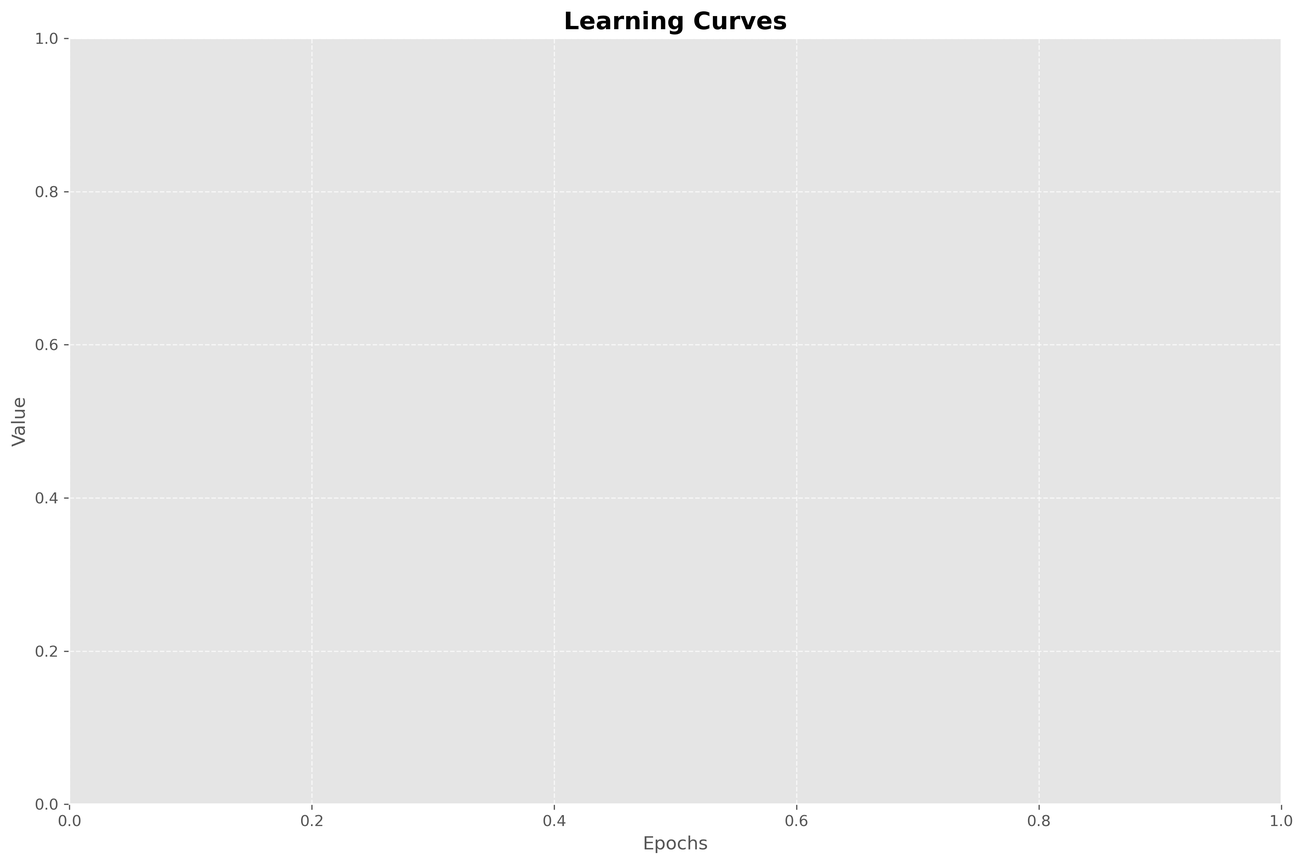
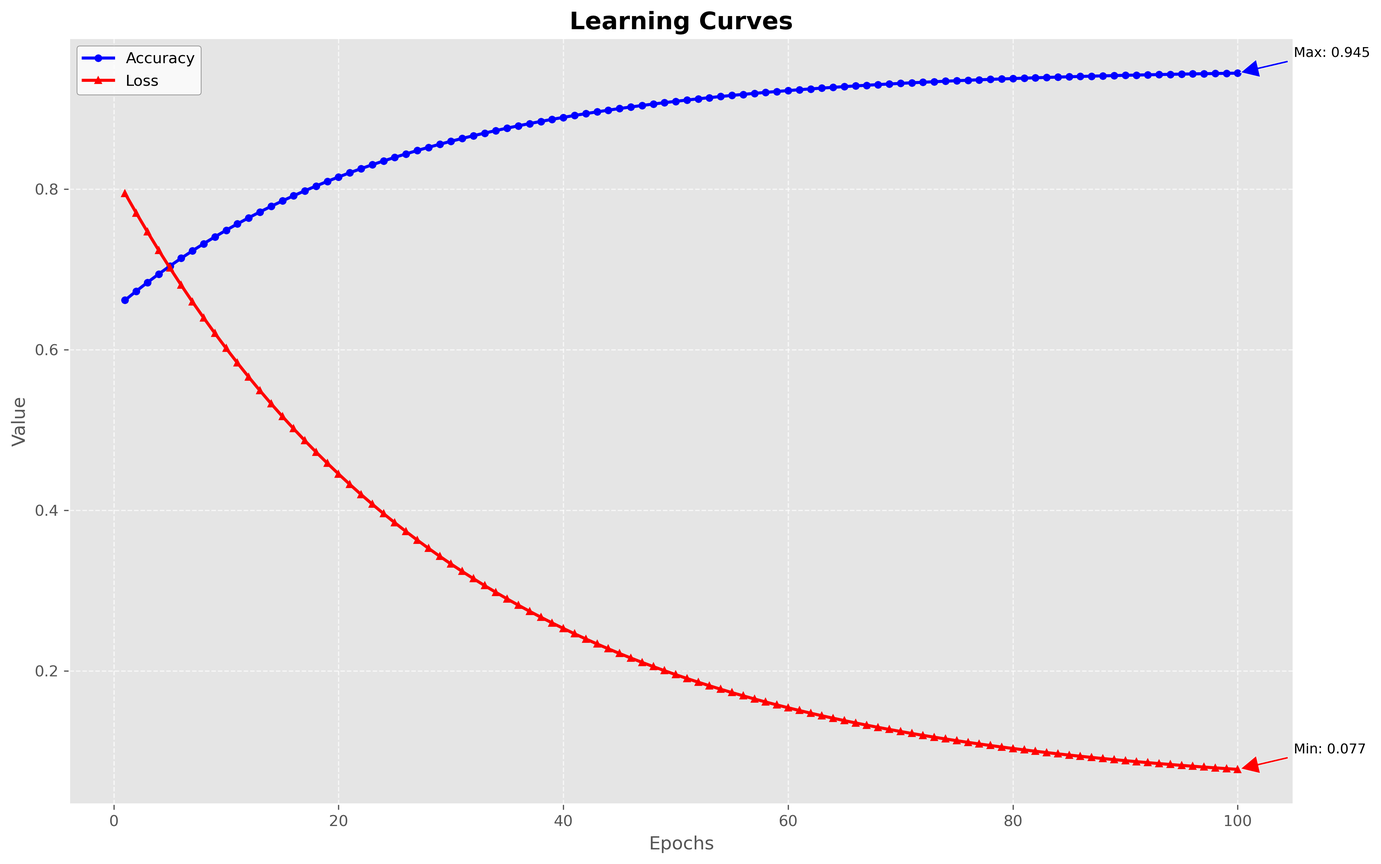
Checkpoint before assistant change: Update Deep Learning model to display graphs similar to the Machine Learning model.
Replit-Commit-Author: Assistant

diff --git a/ai_language/Program test/Data/learning_curves_interactive.html b/ai_language/Program test/Data/learning_curves_interactive.html
@@ -4,7 +4,7 @@
 
 </style>
 
-<div id="fig_el6039140176438005264899381300"></div>
+<div id="fig_el63201402741829803046711847683"></div>
 <script>
 function mpld3_load_lib(url, callback){
   var s = document.createElement('script');
@@ -19,7 +19,7 @@ if(typeof(mpld3) !== "undefined" && mpld3._mpld3IsLoaded){
    // already loaded: just create the figure
    !function(mpld3){
        
-       mpld3.draw_figure("fig_el6039140176438005264899381300", {"width": 1200.0, "height": 800.0, "axes": [{"bbox": [0.05616898148148149, 0.07409722222222226, 0.9221122685185185, 0.8742361111111111], "xlim": [0.0, 1.0], "ylim": [0.0, 1.0], "xdomain": [0.0, 1.0], "ydomain": [0.0, 1.0], "xscale": "linear", "yscale": "linear", "axes": [{"position": "bottom", "nticks": 6, "tickvalues": null, "tickformat_formatter": "", "tickformat": null, "scale": "linear", "fontsize": 10.0, "grid": {"gridOn": true, "color": "#FFFFFF", "dasharray": "6,6", "alpha": 0.7}, "visible": true}, {"position": "left", "nticks": 6, "tickvalues": null, "tickformat_formatter": "", "tickformat": null, "scale": "linear", "fontsize": 10.0, "grid": {"gridOn": true, "color": "#FFFFFF", "dasharray": "6,6", "alpha": 0.7}, "visible": true}], "axesbg": "#E5E5E5", "axesbgalpha": null, "zoomable": true, "id": "el6039140176444757072", "lines": [], "paths": [], "markers": [], "texts": [{"text": "Epochs", "position": [0.5, -0.0418619429660815], "coordinates": "axes", "h_anchor": "middle", "v_baseline": "hanging", "rotation": -0.0, "fontsize": 12.0, "color": "#555555", "alpha": 1, "zorder": 3, "id": "el6039140176438409488"}, {"text": "Value", "position": [-0.03380172083770028, 0.5], "coordinates": "axes", "h_anchor": "middle", "v_baseline": "auto", "rotation": -90.0, "fontsize": 12.0, "color": "#555555", "alpha": 1, "zorder": 3, "id": "el6039140176436430160"}, {"text": "Learning Curves", "position": [0.5, 1.0119151640320916], "coordinates": "axes", "h_anchor": "middle", "v_baseline": "auto", "rotation": -0.0, "fontsize": 16.0, "color": "#000000", "alpha": 1, "zorder": 3, "id": "el6039140176436436432"}], "collections": [], "images": [], "sharex": [], "sharey": []}], "data": {}, "id": "el6039140176438005264", "plugins": [{"type": "reset"}, {"type": "zoom", "button": true, "enabled": false}, {"type": "boxzoom", "button": true, "enabled": false}]});
+       mpld3.draw_figure("fig_el63201402741829803046711847683", {"width": 1200.0, "height": 800.0, "axes": [{"bbox": [0.05616898148148149, 0.07409722222222226, 0.9313310185185185, 0.8742361111111111], "xlim": [-3.95, 104.95], "ylim": [0.03411719999999999, 0.9878568000000001], "xdomain": [-3.95, 104.95], "ydomain": [0.03411719999999999, 0.9878568000000001], "xscale": "linear", "yscale": "linear", "axes": [{"position": "bottom", "nticks": 8, "tickvalues": null, "tickformat_formatter": "", "tickformat": null, "scale": "linear", "fontsize": 10.0, "grid": {"gridOn": true, "color": "#FFFFFF", "dasharray": "6,6", "alpha": 0.7}, "visible": true}, {"position": "left", "nticks": 6, "tickvalues": null, "tickformat_formatter": "", "tickformat": null, "scale": "linear", "fontsize": 10.0, "grid": {"gridOn": true, "color": "#FFFFFF", "dasharray": "6,6", "alpha": 0.7}, "visible": true}], "axesbg": "#E5E5E5", "axesbgalpha": null, "zoomable": true, "id": "el6320140274176654736", "lines": [{"data": "data01", "xindex": 0, "yindex": 1, "coordinates": "data", "id": "el6320140274174817488", "color": "#0000FF", "linewidth": 2.0, "dasharray": "none", "alpha": 1, "zorder": 2, "drawstyle": "default"}, {"data": "data01", "xindex": 0, "yindex": 2, "coordinates": "data", "id": "el6320140274175009424", "color": "#FF0000", "linewidth": 2.0, "dasharray": "none", "alpha": 1, "zorder": 2, "drawstyle": "default"}, {"data": "data02", "xindex": 0, "yindex": 1, "coordinates": "axes", "id": "el6320140274175790864", "color": "#0000FF", "linewidth": 2.0, "dasharray": "none", "alpha": 1, "zorder": 1000002.0, "drawstyle": "default"}, {"data": "data02", "xindex": 0, "yindex": 2, "coordinates": "axes", "id": "el6320140274175070992", "color": "#FF0000", "linewidth": 2.0, "dasharray": "none", "alpha": 1, "zorder": 1000002.0, "drawstyle": "default"}], "paths": [{"data": "data03", "xindex": 0, "yindex": 1, "coordinates": "axes", "pathcodes": ["M", "L", "S", "L", "S", "L", "S", "L", "S", "Z"], "id": "el6320140274178774096", "dasharray": "none", "alpha": 0.8, "facecolor": "rgba(255, 255, 255, 0.8)", "edgecolor": "rgba(128, 128, 128, 0.8)", "edgewidth": 0.5, "zorder": 1000000.0}], "markers": [{"data": "data01", "xindex": 0, "yindex": 1, "coordinates": "data", "id": "el6320140274174817488pts", "facecolor": "#0000FF", "edgecolor": "#0000FF", "edgewidth": 1.0, "alpha": 1, "zorder": 2, "markerpath": [[[0.0, 2.0], [0.5304062, 2.0], [1.039159741569707, 1.7892673831764834], [1.4142135623730951, 1.4142135623730951], [1.7892673831764834, 1.039159741569707], [2.0, 0.5304062], [2.0, 0.0], [2.0, -0.5304062], [1.7892673831764834, -1.039159741569707], [1.4142135623730951, -1.4142135623730951], [1.039159741569707, -1.7892673831764834], [0.5304062, -2.0], [0.0, -2.0], [-0.5304062, -2.0], [-1.039159741569707, -1.7892673831764834], [-1.4142135623730951, -1.4142135623730951], [-1.7892673831764834, -1.039159741569707], [-2.0, -0.5304062], [-2.0, 0.0], [-2.0, 0.5304062], [-1.7892673831764834, 1.039159741569707], [-1.4142135623730951, 1.4142135623730951], [-1.039159741569707, 1.7892673831764834], [-0.5304062, 2.0], [0.0, 2.0]], ["M", "C", "C", "C", "C", "C", "C", "C", "C", "Z"]]}, {"data": "data01", "xindex": 0, "yindex": 2, "coordinates": "data", "id": "el6320140274175009424pts", "facecolor": "#FF0000", "edgecolor": "#FF0000", "edgewidth": 1.0, "alpha": 1, "zorder": 2, "markerpath": [[[0.0, -2.0], [-2.0, 2.0], [2.0, 2.0]], ["M", "L", "L", "Z"]]}, {"data": "data02", "xindex": 0, "yindex": 1, "coordinates": "axes", "id": "el6320140274175790864pts", "facecolor": "#0000FF", "edgecolor": "#0000FF", "edgewidth": 1.0, "alpha": 1, "zorder": 1000002.0, "markerpath": [[[0.0, 2.0], [0.5304062, 2.0], [1.039159741569707, 1.7892673831764834], [1.4142135623730951, 1.4142135623730951], [1.7892673831764834, 1.039159741569707], [2.0, 0.5304062], [2.0, 0.0], [2.0, -0.5304062], [1.7892673831764834, -1.039159741569707], [1.4142135623730951, -1.4142135623730951], [1.039159741569707, -1.7892673831764834], [0.5304062, -2.0], [0.0, -2.0], [-0.5304062, -2.0], [-1.039159741569707, -1.7892673831764834], [-1.4142135623730951, -1.4142135623730951], [-1.7892673831764834, -1.039159741569707], [-2.0, -0.5304062], [-2.0, 0.0], [-2.0, 0.5304062], [-1.7892673831764834, 1.039159741569707], [-1.4142135623730951, 1.4142135623730951], [-1.039159741569707, 1.7892673831764834], [-0.5304062, 2.0], [0.0, 2.0]], ["M", "C", "C", "C", "C", "C", "C", "C", "C", "Z"]]}, {"data": "data02", "xindex": 0, "yindex": 2, "coordinates": "axes", "id": "el6320140274175070992pts", "facecolor": "#FF0000", "edgecolor": "#FF0000", "edgewidth": 1.0, "alpha": 1, "zorder": 1000002.0, "markerpath": [[[0.0, -2.0], [-2.0, 2.0], [2.0, 2.0]], ["M", "L", "L", "Z"]]}], "texts": [{"text": "Max: 0.945", "position": [105.0, 0.9645050000000001], "coordinates": "data", "h_anchor": "start", "v_baseline": "auto", "rotation": -0.0, "fontsize": 9.0, "color": "#000000", "alpha": 1, "zorder": 3, "id": "el6320140274175926032"}, {"text": "Min: 0.077", "position": [105.0, 0.097469], "coordinates": "data", "h_anchor": "start", "v_baseline": "auto", "rotation": -0.0, "fontsize": 9.0, "color": "#000000", "alpha": 1, "zorder": 3, "id": "el6320140274175072784"}, {"text": "Epochs", "position": [0.5, -0.0418619429660815], "coordinates": "axes", "h_anchor": "middle", "v_baseline": "hanging", "rotation": -0.0, "fontsize": 12.0, "color": "#555555", "alpha": 1, "zorder": 3, "id": "el6320140274176338576"}, {"text": "Value", "position": [-0.0334671355959586, 0.5], "coordinates": "axes", "h_anchor": "middle", "v_baseline": "auto", "rotation": -90.0, "fontsize": 12.0, "color": "#555555", "alpha": 1, "zorder": 3, "id": "el6320140274176371344"}, {"text": "Learning Curves", "position": [0.5, 1.0119151640320916], "coordinates": "axes", "h_anchor": "middle", "v_baseline": "auto", "rotation": -0.0, "fontsize": 16.0, "color": "#000000", "alpha": 1, "zorder": 3, "id": "el6320140274174736976"}, {"text": "Accuracy", "position": [0.04598158251208571, 0.9663992374295021], "coordinates": "axes", "h_anchor": "start", "v_baseline": "auto", "rotation": -0.0, "fontsize": 10.0, "color": "#000000", "alpha": 1, "zorder": 1000003.0, "id": "el6320140274174834256"}, {"text": "Loss", "position": [0.04598158251208571, 0.9364524584955121], "coordinates": "axes", "h_anchor": "start", "v_baseline": "auto", "rotation": -0.0, "fontsize": 10.0, "color": "#000000", "alpha": 1, "zorder": 1000003.0, "id": "el6320140274175068176"}], "collections": [], "images": [], "sharex": [], "sharey": []}], "data": {"data01": [[1.0, 0.661763, 0.794756], [2.0, 0.673065, 0.77034], [3.0, 0.683924, 0.746725], [4.0, 0.694357, 0.723883], [5.0, 0.704381, 0.701791], [6.0, 0.714012, 0.680423], [7.0, 0.723265, 0.659755], [8.0, 0.732155, 0.639765], [9.0, 0.740697, 0.62043], [10.0, 0.748904, 0.601729], [11.0, 0.756789, 0.583641], [12.0, 0.764365, 0.566146], [13.0, 0.771644, 0.549225], [14.0, 0.778637, 0.532859], [15.0, 0.785357, 0.517029], [16.0, 0.791812, 0.501718], [17.0, 0.798015, 0.486909], [18.0, 0.803974, 0.472585], [19.0, 0.8097, 0.458731], [20.0, 0.815201, 0.445331], [21.0, 0.820487, 0.432371], [22.0, 0.825565, 0.419835], [23.0, 0.830444, 0.40771], [24.0, 0.835132, 0.395983], [25.0, 0.839636, 0.384641], [26.0, 0.843964, 0.37367], [27.0, 0.848121, 0.363059], [28.0, 0.852116, 0.352795], [29.0, 0.855954, 0.342869], [30.0, 0.859642, 0.333267], [31.0, 0.863185, 0.323981], [32.0, 0.866589, 0.314998], [33.0, 0.869859, 0.306311], [34.0, 0.873002, 0.297908], [35.0, 0.876021, 0.28978], [36.0, 0.878922, 0.28192], [37.0, 0.881709, 0.274316], [38.0, 0.884386, 0.266962], [39.0, 0.886959, 0.259849], [40.0, 0.889431, 0.25297], [41.0, 0.891806, 0.246316], [42.0, 0.894088, 0.23988], [43.0, 0.89628, 0.233655], [44.0, 0.898387, 0.227634], [45.0, 0.90041, 0.22181], [46.0, 0.902355, 0.216178], [47.0, 0.904223, 0.21073], [48.0, 0.906018, 0.20546], [49.0, 0.907742, 0.200364], [50.0, 0.909399, 0.195434], [51.0, 0.910991, 0.190666], [52.0, 0.912521, 0.186055], [53.0, 0.913991, 0.181594], [54.0, 0.915402, 0.17728], [55.0, 0.916759, 0.173107], [56.0, 0.918062, 0.169071], [57.0, 0.919315, 0.165168], [58.0, 0.920518, 0.161392], [59.0, 0.921674, 0.15774], [60.0, 0.922785, 0.154208], [61.0, 0.923852, 0.150792], [62.0, 0.924877, 0.147487], [63.0, 0.925862, 0.144291], [64.0, 0.926809, 0.1412], [65.0, 0.927718, 0.13821], [66.0, 0.928592, 0.135318], [67.0, 0.929431, 0.132521], [68.0, 0.930238, 0.129816], [69.0, 0.931012, 0.127199], [70.0, 0.931757, 0.124668], [71.0, 0.932472, 0.12222], [72.0, 0.93316, 0.119853], [73.0, 0.93382, 0.117563], [74.0, 0.934454, 0.115348], [75.0, 0.935064, 0.113205], [76.0, 0.93565, 0.111133], [77.0, 0.936212, 0.109129], [78.0, 0.936753, 0.107191], [79.0, 0.937272, 0.105316], [80.0, 0.937771, 0.103502], [81.0, 0.938251, 0.101748], [82.0, 0.938712, 0.100052], [83.0, 0.939154, 0.0984108], [84.0, 0.939579, 0.0968237], [85.0, 0.939988, 0.0952887], [86.0, 0.940381, 0.0938039], [87.0, 0.940758, 0.0923679], [88.0, 0.94112, 0.0909789], [89.0, 0.941468, 0.0896354], [90.0, 0.941803, 0.088336], [91.0, 0.942124, 0.0870792], [92.0, 0.942433, 0.0858636], [93.0, 0.94273, 0.0846879], [94.0, 0.943015, 0.0835507], [95.0, 0.943289, 0.0824508], [96.0, 0.943552, 0.0813869], [97.0, 0.943805, 0.0803579], [98.0, 0.944048, 0.0793627], [99.0, 0.944281, 0.0784], [100.0, 0.944505, 0.077469]], "data02": [[0.011184709259696522, 0.9733497497815554, 0.9434029708475654], [0.02361216399269266, 0.9733497497815554, 0.9434029708475654], [0.036039618725688796, 0.9733497497815554, 0.9434029708475654]], "data03": [[0.008699218313097286, 0.9242195567558982], [0.10528539649794327, 0.9242195567558982], [0.1077708874445425, 0.9242195567558982], [0.1077708874445425, 0.9281912780999286], [0.1077708874445425, 0.9860989752958933], [0.1077708874445425, 0.9900706966399238], [0.10528539649794327, 0.9900706966399238], [0.008699218313097286, 0.9900706966399238], [0.006213727366498063, 0.9900706966399238], [0.006213727366498063, 0.9860989752958933], [0.006213727366498063, 0.9281912780999286], [0.006213727366498063, 0.9242195567558982], [0.008699218313097286, 0.9242195567558982]]}, "id": "el6320140274182980304", "plugins": [{"type": "reset"}, {"type": "zoom", "button": true, "enabled": false}, {"type": "boxzoom", "button": true, "enabled": false}]});
    }(mpld3);
 }else if(typeof define === "function" && define.amd){
    // require.js is available: use it to load d3/mpld3
@@ -28,7 +28,7 @@ if(typeof(mpld3) !== "undefined" && mpld3._mpld3IsLoaded){
       window.d3 = d3;
       mpld3_load_lib("https://mpld3.github.io/js/mpld3.v0.5.10.js", function(){
          
-         mpld3.draw_figure("fig_el6039140176438005264899381300", {"width": 1200.0, "height": 800.0, "axes": [{"bbox": [0.05616898148148149, 0.07409722222222226, 0.9221122685185185, 0.8742361111111111], "xlim": [0.0, 1.0], "ylim": [0.0, 1.0], "xdomain": [0.0, 1.0], "ydomain": [0.0, 1.0], "xscale": "linear", "yscale": "linear", "axes": [{"position": "bottom", "nticks": 6, "tickvalues": null, "tickformat_formatter": "", "tickformat": null, "scale": "linear", "fontsize": 10.0, "grid": {"gridOn": true, "color": "#FFFFFF", "dasharray": "6,6", "alpha": 0.7}, "visible": true}, {"position": "left", "nticks": 6, "tickvalues": null, "tickformat_formatter": "", "tickformat": null, "scale": "linear", "fontsize": 10.0, "grid": {"gridOn": true, "color": "#FFFFFF", "dasharray": "6,6", "alpha": 0.7}, "visible": true}], "axesbg": "#E5E5E5", "axesbgalpha": null, "zoomable": true, "id": "el6039140176444757072", "lines": [], "paths": [], "markers": [], "texts": [{"text": "Epochs", "position": [0.5, -0.0418619429660815], "coordinates": "axes", "h_anchor": "middle", "v_baseline": "hanging", "rotation": -0.0, "fontsize": 12.0, "color": "#555555", "alpha": 1, "zorder": 3, "id": "el6039140176438409488"}, {"text": "Value", "position": [-0.03380172083770028, 0.5], "coordinates": "axes", "h_anchor": "middle", "v_baseline": "auto", "rotation": -90.0, "fontsize": 12.0, "color": "#555555", "alpha": 1, "zorder": 3, "id": "el6039140176436430160"}, {"text": "Learning Curves", "position": [0.5, 1.0119151640320916], "coordinates": "axes", "h_anchor": "middle", "v_baseline": "auto", "rotation": -0.0, "fontsize": 16.0, "color": "#000000", "alpha": 1, "zorder": 3, "id": "el6039140176436436432"}], "collections": [], "images": [], "sharex": [], "sharey": []}], "data": {}, "id": "el6039140176438005264", "plugins": [{"type": "reset"}, {"type": "zoom", "button": true, "enabled": false}, {"type": "boxzoom", "button": true, "enabled": false}]});
+         mpld3.draw_figure("fig_el63201402741829803046711847683", {"width": 1200.0, "height": 800.0, "axes": [{"bbox": [0.05616898148148149, 0.07409722222222226, 0.9313310185185185, 0.8742361111111111], "xlim": [-3.95, 104.95], "ylim": [0.03411719999999999, 0.9878568000000001], "xdomain": [-3.95, 104.95], "ydomain": [0.03411719999999999, 0.9878568000000001], "xscale": "linear", "yscale": "linear", "axes": [{"position": "bottom", "nticks": 8, "tickvalues": null, "tickformat_formatter": "", "tickformat": null, "scale": "linear", "fontsize": 10.0, "grid": {"gridOn": true, "color": "#FFFFFF", "dasharray": "6,6", "alpha": 0.7}, "visible": true}, {"position": "left", "nticks": 6, "tickvalues": null, "tickformat_formatter": "", "tickformat": null, "scale": "linear", "fontsize": 10.0, "grid": {"gridOn": true, "color": "#FFFFFF", "dasharray": "6,6", "alpha": 0.7}, "visible": true}], "axesbg": "#E5E5E5", "axesbgalpha": null, "zoomable": true, "id": "el6320140274176654736", "lines": [{"data": "data01", "xindex": 0, "yindex": 1, "coordinates": "data", "id": "el6320140274174817488", "color": "#0000FF", "linewidth": 2.0, "dasharray": "none", "alpha": 1, "zorder": 2, "drawstyle": "default"}, {"data": "data01", "xindex": 0, "yindex": 2, "coordinates": "data", "id": "el6320140274175009424", "color": "#FF0000", "linewidth": 2.0, "dasharray": "none", "alpha": 1, "zorder": 2, "drawstyle": "default"}, {"data": "data02", "xindex": 0, "yindex": 1, "coordinates": "axes", "id": "el6320140274175790864", "color": "#0000FF", "linewidth": 2.0, "dasharray": "none", "alpha": 1, "zorder": 1000002.0, "drawstyle": "default"}, {"data": "data02", "xindex": 0, "yindex": 2, "coordinates": "axes", "id": "el6320140274175070992", "color": "#FF0000", "linewidth": 2.0, "dasharray": "none", "alpha": 1, "zorder": 1000002.0, "drawstyle": "default"}], "paths": [{"data": "data03", "xindex": 0, "yindex": 1, "coordinates": "axes", "pathcodes": ["M", "L", "S", "L", "S", "L", "S", "L", "S", "Z"], "id": "el6320140274178774096", "dasharray": "none", "alpha": 0.8, "facecolor": "rgba(255, 255, 255, 0.8)", "edgecolor": "rgba(128, 128, 128, 0.8)", "edgewidth": 0.5, "zorder": 1000000.0}], "markers": [{"data": "data01", "xindex": 0, "yindex": 1, "coordinates": "data", "id": "el6320140274174817488pts", "facecolor": "#0000FF", "edgecolor": "#0000FF", "edgewidth": 1.0, "alpha": 1, "zorder": 2, "markerpath": [[[0.0, 2.0], [0.5304062, 2.0], [1.039159741569707, 1.7892673831764834], [1.4142135623730951, 1.4142135623730951], [1.7892673831764834, 1.039159741569707], [2.0, 0.5304062], [2.0, 0.0], [2.0, -0.5304062], [1.7892673831764834, -1.039159741569707], [1.4142135623730951, -1.4142135623730951], [1.039159741569707, -1.7892673831764834], [0.5304062, -2.0], [0.0, -2.0], [-0.5304062, -2.0], [-1.039159741569707, -1.7892673831764834], [-1.4142135623730951, -1.4142135623730951], [-1.7892673831764834, -1.039159741569707], [-2.0, -0.5304062], [-2.0, 0.0], [-2.0, 0.5304062], [-1.7892673831764834, 1.039159741569707], [-1.4142135623730951, 1.4142135623730951], [-1.039159741569707, 1.7892673831764834], [-0.5304062, 2.0], [0.0, 2.0]], ["M", "C", "C", "C", "C", "C", "C", "C", "C", "Z"]]}, {"data": "data01", "xindex": 0, "yindex": 2, "coordinates": "data", "id": "el6320140274175009424pts", "facecolor": "#FF0000", "edgecolor": "#FF0000", "edgewidth": 1.0, "alpha": 1, "zorder": 2, "markerpath": [[[0.0, -2.0], [-2.0, 2.0], [2.0, 2.0]], ["M", "L", "L", "Z"]]}, {"data": "data02", "xindex": 0, "yindex": 1, "coordinates": "axes", "id": "el6320140274175790864pts", "facecolor": "#0000FF", "edgecolor": "#0000FF", "edgewidth": 1.0, "alpha": 1, "zorder": 1000002.0, "markerpath": [[[0.0, 2.0], [0.5304062, 2.0], [1.039159741569707, 1.7892673831764834], [1.4142135623730951, 1.4142135623730951], [1.7892673831764834, 1.039159741569707], [2.0, 0.5304062], [2.0, 0.0], [2.0, -0.5304062], [1.7892673831764834, -1.039159741569707], [1.4142135623730951, -1.4142135623730951], [1.039159741569707, -1.7892673831764834], [0.5304062, -2.0], [0.0, -2.0], [-0.5304062, -2.0], [-1.039159741569707, -1.7892673831764834], [-1.4142135623730951, -1.4142135623730951], [-1.7892673831764834, -1.039159741569707], [-2.0, -0.5304062], [-2.0, 0.0], [-2.0, 0.5304062], [-1.7892673831764834, 1.039159741569707], [-1.4142135623730951, 1.4142135623730951], [-1.039159741569707, 1.7892673831764834], [-0.5304062, 2.0], [0.0, 2.0]], ["M", "C", "C", "C", "C", "C", "C", "C", "C", "Z"]]}, {"data": "data02", "xindex": 0, "yindex": 2, "coordinates": "axes", "id": "el6320140274175070992pts", "facecolor": "#FF0000", "edgecolor": "#FF0000", "edgewidth": 1.0, "alpha": 1, "zorder": 1000002.0, "markerpath": [[[0.0, -2.0], [-2.0, 2.0], [2.0, 2.0]], ["M", "L", "L", "Z"]]}], "texts": [{"text": "Max: 0.945", "position": [105.0, 0.9645050000000001], "coordinates": "data", "h_anchor": "start", "v_baseline": "auto", "rotation": -0.0, "fontsize": 9.0, "color": "#000000", "alpha": 1, "zorder": 3, "id": "el6320140274175926032"}, {"text": "Min: 0.077", "position": [105.0, 0.097469], "coordinates": "data", "h_anchor": "start", "v_baseline": "auto", "rotation": -0.0, "fontsize": 9.0, "color": "#000000", "alpha": 1, "zorder": 3, "id": "el6320140274175072784"}, {"text": "Epochs", "position": [0.5, -0.0418619429660815], "coordinates": "axes", "h_anchor": "middle", "v_baseline": "hanging", "rotation": -0.0, "fontsize": 12.0, "color": "#555555", "alpha": 1, "zorder": 3, "id": "el6320140274176338576"}, {"text": "Value", "position": [-0.0334671355959586, 0.5], "coordinates": "axes", "h_anchor": "middle", "v_baseline": "auto", "rotation": -90.0, "fontsize": 12.0, "color": "#555555", "alpha": 1, "zorder": 3, "id": "el6320140274176371344"}, {"text": "Learning Curves", "position": [0.5, 1.0119151640320916], "coordinates": "axes", "h_anchor": "middle", "v_baseline": "auto", "rotation": -0.0, "fontsize": 16.0, "color": "#000000", "alpha": 1, "zorder": 3, "id": "el6320140274174736976"}, {"text": "Accuracy", "position": [0.04598158251208571, 0.9663992374295021], "coordinates": "axes", "h_anchor": "start", "v_baseline": "auto", "rotation": -0.0, "fontsize": 10.0, "color": "#000000", "alpha": 1, "zorder": 1000003.0, "id": "el6320140274174834256"}, {"text": "Loss", "position": [0.04598158251208571, 0.9364524584955121], "coordinates": "axes", "h_anchor": "start", "v_baseline": "auto", "rotation": -0.0, "fontsize": 10.0, "color": "#000000", "alpha": 1, "zorder": 1000003.0, "id": "el6320140274175068176"}], "collections": [], "images": [], "sharex": [], "sharey": []}], "data": {"data01": [[1.0, 0.661763, 0.794756], [2.0, 0.673065, 0.77034], [3.0, 0.683924, 0.746725], [4.0, 0.694357, 0.723883], [5.0, 0.704381, 0.701791], [6.0, 0.714012, 0.680423], [7.0, 0.723265, 0.659755], [8.0, 0.732155, 0.639765], [9.0, 0.740697, 0.62043], [10.0, 0.748904, 0.601729], [11.0, 0.756789, 0.583641], [12.0, 0.764365, 0.566146], [13.0, 0.771644, 0.549225], [14.0, 0.778637, 0.532859], [15.0, 0.785357, 0.517029], [16.0, 0.791812, 0.501718], [17.0, 0.798015, 0.486909], [18.0, 0.803974, 0.472585], [19.0, 0.8097, 0.458731], [20.0, 0.815201, 0.445331], [21.0, 0.820487, 0.432371], [22.0, 0.825565, 0.419835], [23.0, 0.830444, 0.40771], [24.0, 0.835132, 0.395983], [25.0, 0.839636, 0.384641], [26.0, 0.843964, 0.37367], [27.0, 0.848121, 0.363059], [28.0, 0.852116, 0.352795], [29.0, 0.855954, 0.342869], [30.0, 0.859642, 0.333267], [31.0, 0.863185, 0.323981], [32.0, 0.866589, 0.314998], [33.0, 0.869859, 0.306311], [34.0, 0.873002, 0.297908], [35.0, 0.876021, 0.28978], [36.0, 0.878922, 0.28192], [37.0, 0.881709, 0.274316], [38.0, 0.884386, 0.266962], [39.0, 0.886959, 0.259849], [40.0, 0.889431, 0.25297], [41.0, 0.891806, 0.246316], [42.0, 0.894088, 0.23988], [43.0, 0.89628, 0.233655], [44.0, 0.898387, 0.227634], [45.0, 0.90041, 0.22181], [46.0, 0.902355, 0.216178], [47.0, 0.904223, 0.21073], [48.0, 0.906018, 0.20546], [49.0, 0.907742, 0.200364], [50.0, 0.909399, 0.195434], [51.0, 0.910991, 0.190666], [52.0, 0.912521, 0.186055], [53.0, 0.913991, 0.181594], [54.0, 0.915402, 0.17728], [55.0, 0.916759, 0.173107], [56.0, 0.918062, 0.169071], [57.0, 0.919315, 0.165168], [58.0, 0.920518, 0.161392], [59.0, 0.921674, 0.15774], [60.0, 0.922785, 0.154208], [61.0, 0.923852, 0.150792], [62.0, 0.924877, 0.147487], [63.0, 0.925862, 0.144291], [64.0, 0.926809, 0.1412], [65.0, 0.927718, 0.13821], [66.0, 0.928592, 0.135318], [67.0, 0.929431, 0.132521], [68.0, 0.930238, 0.129816], [69.0, 0.931012, 0.127199], [70.0, 0.931757, 0.124668], [71.0, 0.932472, 0.12222], [72.0, 0.93316, 0.119853], [73.0, 0.93382, 0.117563], [74.0, 0.934454, 0.115348], [75.0, 0.935064, 0.113205], [76.0, 0.93565, 0.111133], [77.0, 0.936212, 0.109129], [78.0, 0.936753, 0.107191], [79.0, 0.937272, 0.105316], [80.0, 0.937771, 0.103502], [81.0, 0.938251, 0.101748], [82.0, 0.938712, 0.100052], [83.0, 0.939154, 0.0984108], [84.0, 0.939579, 0.0968237], [85.0, 0.939988, 0.0952887], [86.0, 0.940381, 0.0938039], [87.0, 0.940758, 0.0923679], [88.0, 0.94112, 0.0909789], [89.0, 0.941468, 0.0896354], [90.0, 0.941803, 0.088336], [91.0, 0.942124, 0.0870792], [92.0, 0.942433, 0.0858636], [93.0, 0.94273, 0.0846879], [94.0, 0.943015, 0.0835507], [95.0, 0.943289, 0.0824508], [96.0, 0.943552, 0.0813869], [97.0, 0.943805, 0.0803579], [98.0, 0.944048, 0.0793627], [99.0, 0.944281, 0.0784], [100.0, 0.944505, 0.077469]], "data02": [[0.011184709259696522, 0.9733497497815554, 0.9434029708475654], [0.02361216399269266, 0.9733497497815554, 0.9434029708475654], [0.036039618725688796, 0.9733497497815554, 0.9434029708475654]], "data03": [[0.008699218313097286, 0.9242195567558982], [0.10528539649794327, 0.9242195567558982], [0.1077708874445425, 0.9242195567558982], [0.1077708874445425, 0.9281912780999286], [0.1077708874445425, 0.9860989752958933], [0.1077708874445425, 0.9900706966399238], [0.10528539649794327, 0.9900706966399238], [0.008699218313097286, 0.9900706966399238], [0.006213727366498063, 0.9900706966399238], [0.006213727366498063, 0.9860989752958933], [0.006213727366498063, 0.9281912780999286], [0.006213727366498063, 0.9242195567558982], [0.008699218313097286, 0.9242195567558982]]}, "id": "el6320140274182980304", "plugins": [{"type": "reset"}, {"type": "zoom", "button": true, "enabled": false}, {"type": "boxzoom", "button": true, "enabled": false}]});
       });
     });
 }else{
@@ -36,7 +36,7 @@ if(typeof(mpld3) !== "undefined" && mpld3._mpld3IsLoaded){
     mpld3_load_lib("https://d3js.org/d3.v5.js", function(){
          mpld3_load_lib("https://mpld3.github.io/js/mpld3.v0.5.10.js", function(){
                  
-                 mpld3.draw_figure("fig_el6039140176438005264899381300", {"width": 1200.0, "height": 800.0, "axes": [{"bbox": [0.05616898148148149, 0.07409722222222226, 0.9221122685185185, 0.8742361111111111], "xlim": [0.0, 1.0], "ylim": [0.0, 1.0], "xdomain": [0.0, 1.0], "ydomain": [0.0, 1.0], "xscale": "linear", "yscale": "linear", "axes": [{"position": "bottom", "nticks": 6, "tickvalues": null, "tickformat_formatter": "", "tickformat": null, "scale": "linear", "fontsize": 10.0, "grid": {"gridOn": true, "color": "#FFFFFF", "dasharray": "6,6", "alpha": 0.7}, "visible": true}, {"position": "left", "nticks": 6, "tickvalues": null, "tickformat_formatter": "", "tickformat": null, "scale": "linear", "fontsize": 10.0, "grid": {"gridOn": true, "color": "#FFFFFF", "dasharray": "6,6", "alpha": 0.7}, "visible": true}], "axesbg": "#E5E5E5", "axesbgalpha": null, "zoomable": true, "id": "el6039140176444757072", "lines": [], "paths": [], "markers": [], "texts": [{"text": "Epochs", "position": [0.5, -0.0418619429660815], "coordinates": "axes", "h_anchor": "middle", "v_baseline": "hanging", "rotation": -0.0, "fontsize": 12.0, "color": "#555555", "alpha": 1, "zorder": 3, "id": "el6039140176438409488"}, {"text": "Value", "position": [-0.03380172083770028, 0.5], "coordinates": "axes", "h_anchor": "middle", "v_baseline": "auto", "rotation": -90.0, "fontsize": 12.0, "color": "#555555", "alpha": 1, "zorder": 3, "id": "el6039140176436430160"}, {"text": "Learning Curves", "position": [0.5, 1.0119151640320916], "coordinates": "axes", "h_anchor": "middle", "v_baseline": "auto", "rotation": -0.0, "fontsize": 16.0, "color": "#000000", "alpha": 1, "zorder": 3, "id": "el6039140176436436432"}], "collections": [], "images": [], "sharex": [], "sharey": []}], "data": {}, "id": "el6039140176438005264", "plugins": [{"type": "reset"}, {"type": "zoom", "button": true, "enabled": false}, {"type": "boxzoom", "button": true, "enabled": false}]});
+                 mpld3.draw_figure("fig_el63201402741829803046711847683", {"width": 1200.0, "height": 800.0, "axes": [{"bbox": [0.05616898148148149, 0.07409722222222226, 0.9313310185185185, 0.8742361111111111], "xlim": [-3.95, 104.95], "ylim": [0.03411719999999999, 0.9878568000000001], "xdomain": [-3.95, 104.95], "ydomain": [0.03411719999999999, 0.9878568000000001], "xscale": "linear", "yscale": "linear", "axes": [{"position": "bottom", "nticks": 8, "tickvalues": null, "tickformat_formatter": "", "tickformat": null, "scale": "linear", "fontsize": 10.0, "grid": {"gridOn": true, "color": "#FFFFFF", "dasharray": "6,6", "alpha": 0.7}, "visible": true}, {"position": "left", "nticks": 6, "tickvalues": null, "tickformat_formatter": "", "tickformat": null, "scale": "linear", "fontsize": 10.0, "grid": {"gridOn": true, "color": "#FFFFFF", "dasharray": "6,6", "alpha": 0.7}, "visible": true}], "axesbg": "#E5E5E5", "axesbgalpha": null, "zoomable": true, "id": "el6320140274176654736", "lines": [{"data": "data01", "xindex": 0, "yindex": 1, "coordinates": "data", "id": "el6320140274174817488", "color": "#0000FF", "linewidth": 2.0, "dasharray": "none", "alpha": 1, "zorder": 2, "drawstyle": "default"}, {"data": "data01", "xindex": 0, "yindex": 2, "coordinates": "data", "id": "el6320140274175009424", "color": "#FF0000", "linewidth": 2.0, "dasharray": "none", "alpha": 1, "zorder": 2, "drawstyle": "default"}, {"data": "data02", "xindex": 0, "yindex": 1, "coordinates": "axes", "id": "el6320140274175790864", "color": "#0000FF", "linewidth": 2.0, "dasharray": "none", "alpha": 1, "zorder": 1000002.0, "drawstyle": "default"}, {"data": "data02", "xindex": 0, "yindex": 2, "coordinates": "axes", "id": "el6320140274175070992", "color": "#FF0000", "linewidth": 2.0, "dasharray": "none", "alpha": 1, "zorder": 1000002.0, "drawstyle": "default"}], "paths": [{"data": "data03", "xindex": 0, "yindex": 1, "coordinates": "axes", "pathcodes": ["M", "L", "S", "L", "S", "L", "S", "L", "S", "Z"], "id": "el6320140274178774096", "dasharray": "none", "alpha": 0.8, "facecolor": "rgba(255, 255, 255, 0.8)", "edgecolor": "rgba(128, 128, 128, 0.8)", "edgewidth": 0.5, "zorder": 1000000.0}], "markers": [{"data": "data01", "xindex": 0, "yindex": 1, "coordinates": "data", "id": "el6320140274174817488pts", "facecolor": "#0000FF", "edgecolor": "#0000FF", "edgewidth": 1.0, "alpha": 1, "zorder": 2, "markerpath": [[[0.0, 2.0], [0.5304062, 2.0], [1.039159741569707, 1.7892673831764834], [1.4142135623730951, 1.4142135623730951], [1.7892673831764834, 1.039159741569707], [2.0, 0.5304062], [2.0, 0.0], [2.0, -0.5304062], [1.7892673831764834, -1.039159741569707], [1.4142135623730951, -1.4142135623730951], [1.039159741569707, -1.7892673831764834], [0.5304062, -2.0], [0.0, -2.0], [-0.5304062, -2.0], [-1.039159741569707, -1.7892673831764834], [-1.4142135623730951, -1.4142135623730951], [-1.7892673831764834, -1.039159741569707], [-2.0, -0.5304062], [-2.0, 0.0], [-2.0, 0.5304062], [-1.7892673831764834, 1.039159741569707], [-1.4142135623730951, 1.4142135623730951], [-1.039159741569707, 1.7892673831764834], [-0.5304062, 2.0], [0.0, 2.0]], ["M", "C", "C", "C", "C", "C", "C", "C", "C", "Z"]]}, {"data": "data01", "xindex": 0, "yindex": 2, "coordinates": "data", "id": "el6320140274175009424pts", "facecolor": "#FF0000", "edgecolor": "#FF0000", "edgewidth": 1.0, "alpha": 1, "zorder": 2, "markerpath": [[[0.0, -2.0], [-2.0, 2.0], [2.0, 2.0]], ["M", "L", "L", "Z"]]}, {"data": "data02", "xindex": 0, "yindex": 1, "coordinates": "axes", "id": "el6320140274175790864pts", "facecolor": "#0000FF", "edgecolor": "#0000FF", "edgewidth": 1.0, "alpha": 1, "zorder": 1000002.0, "markerpath": [[[0.0, 2.0], [0.5304062, 2.0], [1.039159741569707, 1.7892673831764834], [1.4142135623730951, 1.4142135623730951], [1.7892673831764834, 1.039159741569707], [2.0, 0.5304062], [2.0, 0.0], [2.0, -0.5304062], [1.7892673831764834, -1.039159741569707], [1.4142135623730951, -1.4142135623730951], [1.039159741569707, -1.7892673831764834], [0.5304062, -2.0], [0.0, -2.0], [-0.5304062, -2.0], [-1.039159741569707, -1.7892673831764834], [-1.4142135623730951, -1.4142135623730951], [-1.7892673831764834, -1.039159741569707], [-2.0, -0.5304062], [-2.0, 0.0], [-2.0, 0.5304062], [-1.7892673831764834, 1.039159741569707], [-1.4142135623730951, 1.4142135623730951], [-1.039159741569707, 1.7892673831764834], [-0.5304062, 2.0], [0.0, 2.0]], ["M", "C", "C", "C", "C", "C", "C", "C", "C", "Z"]]}, {"data": "data02", "xindex": 0, "yindex": 2, "coordinates": "axes", "id": "el6320140274175070992pts", "facecolor": "#FF0000", "edgecolor": "#FF0000", "edgewidth": 1.0, "alpha": 1, "zorder": 1000002.0, "markerpath": [[[0.0, -2.0], [-2.0, 2.0], [2.0, 2.0]], ["M", "L", "L", "Z"]]}], "texts": [{"text": "Max: 0.945", "position": [105.0, 0.9645050000000001], "coordinates": "data", "h_anchor": "start", "v_baseline": "auto", "rotation": -0.0, "fontsize": 9.0, "color": "#000000", "alpha": 1, "zorder": 3, "id": "el6320140274175926032"}, {"text": "Min: 0.077", "position": [105.0, 0.097469], "coordinates": "data", "h_anchor": "start", "v_baseline": "auto", "rotation": -0.0, "fontsize": 9.0, "color": "#000000", "alpha": 1, "zorder": 3, "id": "el6320140274175072784"}, {"text": "Epochs", "position": [0.5, -0.0418619429660815], "coordinates": "axes", "h_anchor": "middle", "v_baseline": "hanging", "rotation": -0.0, "fontsize": 12.0, "color": "#555555", "alpha": 1, "zorder": 3, "id": "el6320140274176338576"}, {"text": "Value", "position": [-0.0334671355959586, 0.5], "coordinates": "axes", "h_anchor": "middle", "v_baseline": "auto", "rotation": -90.0, "fontsize": 12.0, "color": "#555555", "alpha": 1, "zorder": 3, "id": "el6320140274176371344"}, {"text": "Learning Curves", "position": [0.5, 1.0119151640320916], "coordinates": "axes", "h_anchor": "middle", "v_baseline": "auto", "rotation": -0.0, "fontsize": 16.0, "color": "#000000", "alpha": 1, "zorder": 3, "id": "el6320140274174736976"}, {"text": "Accuracy", "position": [0.04598158251208571, 0.9663992374295021], "coordinates": "axes", "h_anchor": "start", "v_baseline": "auto", "rotation": -0.0, "fontsize": 10.0, "color": "#000000", "alpha": 1, "zorder": 1000003.0, "id": "el6320140274174834256"}, {"text": "Loss", "position": [0.04598158251208571, 0.9364524584955121], "coordinates": "axes", "h_anchor": "start", "v_baseline": "auto", "rotation": -0.0, "fontsize": 10.0, "color": "#000000", "alpha": 1, "zorder": 1000003.0, "id": "el6320140274175068176"}], "collections": [], "images": [], "sharex": [], "sharey": []}], "data": {"data01": [[1.0, 0.661763, 0.794756], [2.0, 0.673065, 0.77034], [3.0, 0.683924, 0.746725], [4.0, 0.694357, 0.723883], [5.0, 0.704381, 0.701791], [6.0, 0.714012, 0.680423], [7.0, 0.723265, 0.659755], [8.0, 0.732155, 0.639765], [9.0, 0.740697, 0.62043], [10.0, 0.748904, 0.601729], [11.0, 0.756789, 0.583641], [12.0, 0.764365, 0.566146], [13.0, 0.771644, 0.549225], [14.0, 0.778637, 0.532859], [15.0, 0.785357, 0.517029], [16.0, 0.791812, 0.501718], [17.0, 0.798015, 0.486909], [18.0, 0.803974, 0.472585], [19.0, 0.8097, 0.458731], [20.0, 0.815201, 0.445331], [21.0, 0.820487, 0.432371], [22.0, 0.825565, 0.419835], [23.0, 0.830444, 0.40771], [24.0, 0.835132, 0.395983], [25.0, 0.839636, 0.384641], [26.0, 0.843964, 0.37367], [27.0, 0.848121, 0.363059], [28.0, 0.852116, 0.352795], [29.0, 0.855954, 0.342869], [30.0, 0.859642, 0.333267], [31.0, 0.863185, 0.323981], [32.0, 0.866589, 0.314998], [33.0, 0.869859, 0.306311], [34.0, 0.873002, 0.297908], [35.0, 0.876021, 0.28978], [36.0, 0.878922, 0.28192], [37.0, 0.881709, 0.274316], [38.0, 0.884386, 0.266962], [39.0, 0.886959, 0.259849], [40.0, 0.889431, 0.25297], [41.0, 0.891806, 0.246316], [42.0, 0.894088, 0.23988], [43.0, 0.89628, 0.233655], [44.0, 0.898387, 0.227634], [45.0, 0.90041, 0.22181], [46.0, 0.902355, 0.216178], [47.0, 0.904223, 0.21073], [48.0, 0.906018, 0.20546], [49.0, 0.907742, 0.200364], [50.0, 0.909399, 0.195434], [51.0, 0.910991, 0.190666], [52.0, 0.912521, 0.186055], [53.0, 0.913991, 0.181594], [54.0, 0.915402, 0.17728], [55.0, 0.916759, 0.173107], [56.0, 0.918062, 0.169071], [57.0, 0.919315, 0.165168], [58.0, 0.920518, 0.161392], [59.0, 0.921674, 0.15774], [60.0, 0.922785, 0.154208], [61.0, 0.923852, 0.150792], [62.0, 0.924877, 0.147487], [63.0, 0.925862, 0.144291], [64.0, 0.926809, 0.1412], [65.0, 0.927718, 0.13821], [66.0, 0.928592, 0.135318], [67.0, 0.929431, 0.132521], [68.0, 0.930238, 0.129816], [69.0, 0.931012, 0.127199], [70.0, 0.931757, 0.124668], [71.0, 0.932472, 0.12222], [72.0, 0.93316, 0.119853], [73.0, 0.93382, 0.117563], [74.0, 0.934454, 0.115348], [75.0, 0.935064, 0.113205], [76.0, 0.93565, 0.111133], [77.0, 0.936212, 0.109129], [78.0, 0.936753, 0.107191], [79.0, 0.937272, 0.105316], [80.0, 0.937771, 0.103502], [81.0, 0.938251, 0.101748], [82.0, 0.938712, 0.100052], [83.0, 0.939154, 0.0984108], [84.0, 0.939579, 0.0968237], [85.0, 0.939988, 0.0952887], [86.0, 0.940381, 0.0938039], [87.0, 0.940758, 0.0923679], [88.0, 0.94112, 0.0909789], [89.0, 0.941468, 0.0896354], [90.0, 0.941803, 0.088336], [91.0, 0.942124, 0.0870792], [92.0, 0.942433, 0.0858636], [93.0, 0.94273, 0.0846879], [94.0, 0.943015, 0.0835507], [95.0, 0.943289, 0.0824508], [96.0, 0.943552, 0.0813869], [97.0, 0.943805, 0.0803579], [98.0, 0.944048, 0.0793627], [99.0, 0.944281, 0.0784], [100.0, 0.944505, 0.077469]], "data02": [[0.011184709259696522, 0.9733497497815554, 0.9434029708475654], [0.02361216399269266, 0.9733497497815554, 0.9434029708475654], [0.036039618725688796, 0.9733497497815554, 0.9434029708475654]], "data03": [[0.008699218313097286, 0.9242195567558982], [0.10528539649794327, 0.9242195567558982], [0.1077708874445425, 0.9242195567558982], [0.1077708874445425, 0.9281912780999286], [0.1077708874445425, 0.9860989752958933], [0.1077708874445425, 0.9900706966399238], [0.10528539649794327, 0.9900706966399238], [0.008699218313097286, 0.9900706966399238], [0.006213727366498063, 0.9900706966399238], [0.006213727366498063, 0.9860989752958933], [0.006213727366498063, 0.9281912780999286], [0.006213727366498063, 0.9242195567558982], [0.008699218313097286, 0.9242195567558982]]}, "id": "el6320140274182980304", "plugins": [{"type": "reset"}, {"type": "zoom", "button": true, "enabled": false}, {"type": "boxzoom", "button": true, "enabled": false}]});
             })
          });
 }
